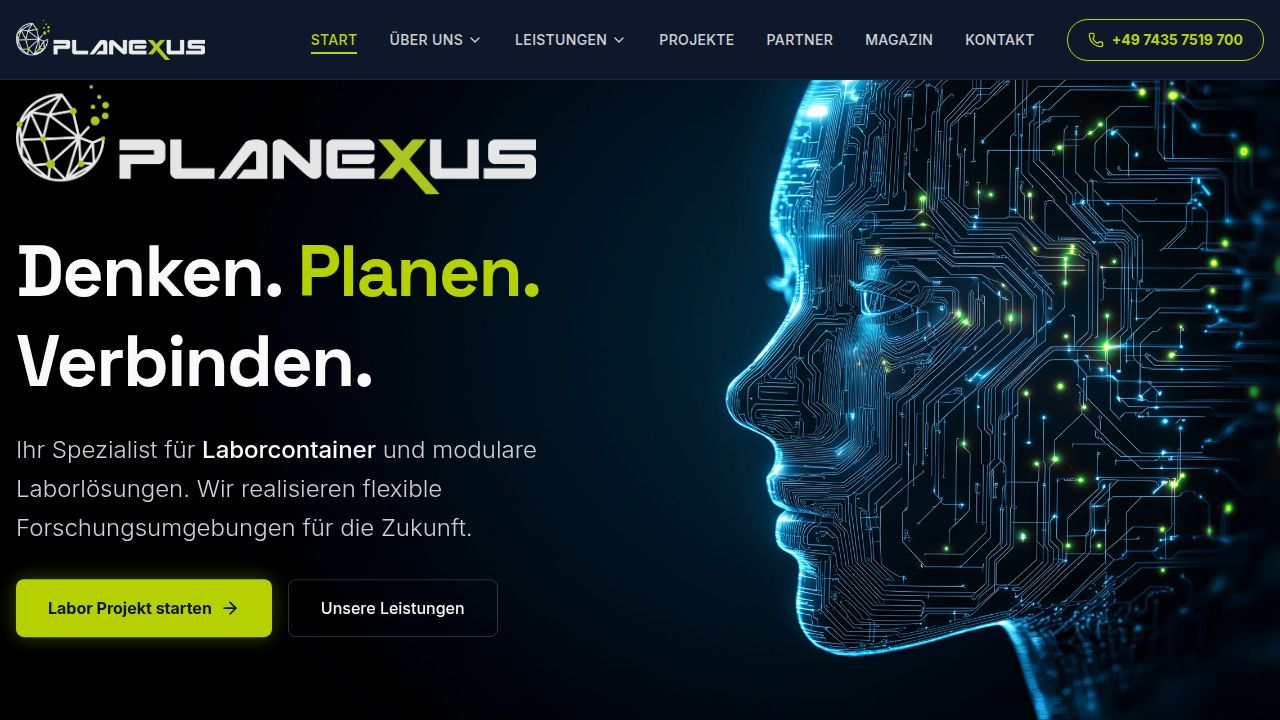
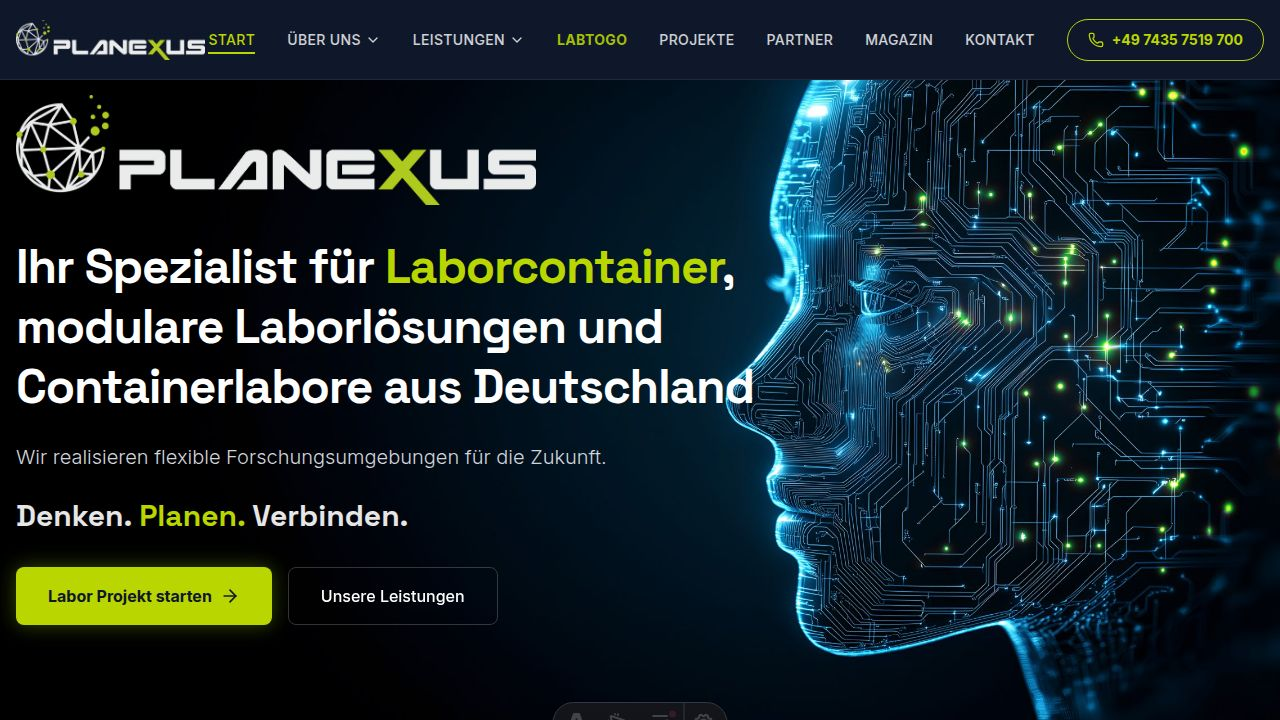
Add technical specifications table to the homepage and normalize the root canonical URL
Introduced a table with LABtoGO 2.0 technical specifications to the homepage (index.astro) and modified Layout.astro to ensure the root canonical URL is rendered without a trailing slash.

Replit-Commit-Author: Agent
Replit-Commit-Session-Id: fa74fec4-5bf0-4c41-8153-e1e5d400dad8
Replit-Commit-Checkpoint-Type: full_checkpoint
Replit-Commit-Event-Id: 5520afa0-51e8-419e-b53b-7e6d3a5a127e
Replit-Commit-Screenshot-Url: https://storage.googleapis.com/screenshot-production-us-central1/fd76aba6-7a99-4c65-995d-a4fd8c5b059b/fa74fec4-5bf0-4c41-8153-e1e5d400dad8/zRFlevL
Replit-Helium-Checkpoint-Created: true

diff --git a/.astro/types.d.ts b/.astro/types.d.ts
@@ -1,1 +1,2 @@
 /// <reference types="astro/client" />
+/// <reference path="content.d.ts" />
